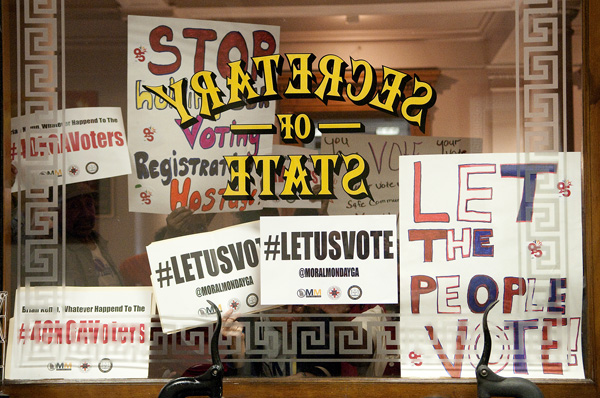
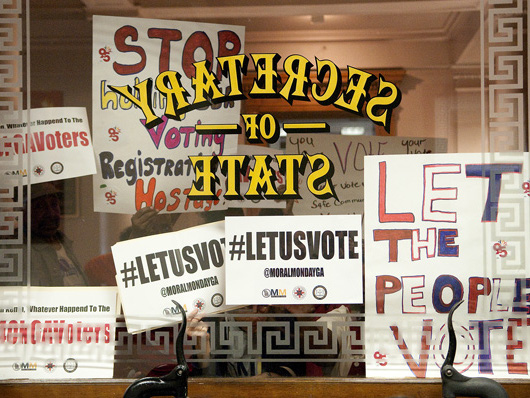
add blum campaign
also discovered need to keep proportions consistent across thumbnails

diff --git a/_posts/2014-11-20-blum.md b/_posts/2014-11-20-blum.md
@@ -1,0 +1,13 @@
+---
+layout: petition-page
+title: "Edward Blum: We Won't Be Used For Your Racist Agenda"
+permalink: /blockblum/
+category: campaigns
+featured-image: '/static/images/featured/blum.PNG'
+blurb: "Edward Blum is on a mission to dismantle affirmative action. And he's using AAPIs to do it."
+---
+
+<link href='https://actionnetwork.org/css/style-embed-whitelabel.css' rel='stylesheet' type='text/css' />
+<script>window.yepnope || document.write('<script src="https://actionnetwork.org/assets/yepnope154-min.js"><\/script>');</script>
+<script src='https://actionnetwork.org/widgets/v2/petition/edward-blum-we-wont-be-used-for-your-racist-agenda?format=js&source=widget&style=full'></script>
+<div id='can-petition-area-edward-blum-we-wont-be-used-for-your-racist-agenda' style='width: 100%'><!-- this div is the target for our HTML insertion --></div>
